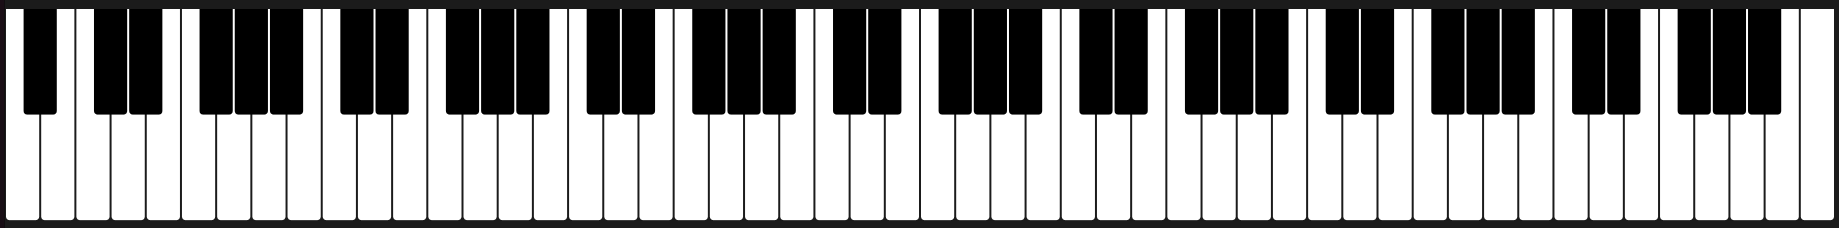
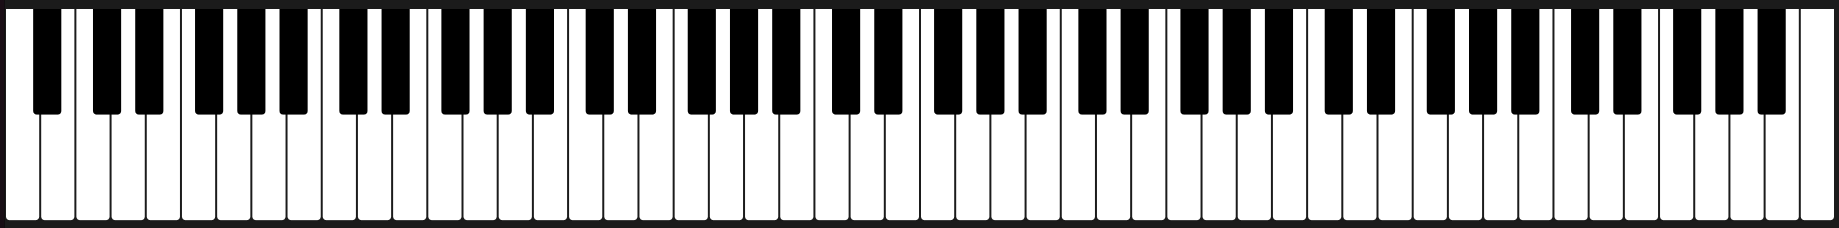
Add spacing for fingers between black keys.

diff --git a/egui-widgets-music/src/piano_keys.rs b/egui-widgets-music/src/piano_keys.rs
@@ -7,6 +7,7 @@ pub struct PianoConfig {
     pub white_key_size_ratio: f32,
     pub black_key_size_ratio: f32,
     pub ratio_rounding: f32,
+    pub ratio_width_white_to_black_keys: f32,
     pub color_white_key: Color32,
     pub color_black_key: Color32,
     pub color_white_pressed_key: Color32,
@@ -19,7 +20,8 @@ impl Default for PianoConfig {
             first_key: ChromaticNote::new(ChromaticTone::A, 0),
             last_key: ChromaticNote::new(ChromaticTone::C, 8),
             white_key_size_ratio: 6.0,
-            black_key_size_ratio: 3.0,
+            black_key_size_ratio: 3.5,
+            ratio_width_white_to_black_keys: 0.8,
             ratio_rounding: 0.1,
             color_black_key: Color32::BLACK,
             color_white_key: Color32::WHITE,
@@ -49,6 +51,7 @@ trait PianoKey {
         !self.is_white_key()
     }
     fn is_followed_by_black_key(&self) -> bool;
+    fn key_offset(&self) -> f32;
 }
 
 impl PianoKey for ChromaticNote {
@@ -84,6 +87,23 @@ impl PianoKey for ChromaticNote {
             | ChromaticTone::GSharp => false,
         }
     }
+
+    fn key_offset(&self) -> f32 {
+        match self.tone {
+            ChromaticTone::A
+            | ChromaticTone::C
+            | ChromaticTone::D
+            | ChromaticTone::F
+            | ChromaticTone::G
+            | ChromaticTone::E
+            | ChromaticTone::B => 0.0,
+            ChromaticTone::CSharp => -0.1,
+            ChromaticTone::DSharp => 0.1,
+            ChromaticTone::FSharp => -0.2,
+            ChromaticTone::GSharp => 0.0,
+            ChromaticTone::ASharp => 0.2,
+        }
+    }
 }
 
 impl Widget for PianoKeys {
@@ -95,6 +115,7 @@ impl Widget for PianoKeys {
             .count();
         let canvas_width = ui.available_width();
         let white_key_width = canvas_width / number_of_white_keys as f32;
+        let black_key_width = white_key_width * self.config.ratio_width_white_to_black_keys;
         let rounding = white_key_width * self.config.ratio_rounding;
         let white_key_height = white_key_width * self.config.white_key_size_ratio;
         let black_key_height = white_key_width * self.config.black_key_size_ratio;
@@ -146,15 +167,15 @@ impl Widget for PianoKeys {
                 } else {
                     self.config.color_black_key
                 };
-                let key = key_number as f32 + 0.5;
+                let key = (key_number + 1) as f32 + note.key_offset();
                 painter.rect_filled(
                     Rect {
                         min: Pos2 {
-                            x: key * white_key_width + 1.0,
+                            x: key * white_key_width - black_key_width * 0.5,
                             y: 50.0,
                         },
                         max: Pos2 {
-                            x: (key + 1.0) * white_key_width - 1.0,
+                            x: key * white_key_width + black_key_width * 0.5,
                             y: 50.0 + black_key_height,
                         },
                     },

diff --git a/README.md b/README.md
@@ -33,6 +33,4 @@ Widget to draw a piano. Has options to use different colors when keys are presse
 ![Piano Keys](resources/egui-piano-keys.png "egui-widgets-music::piano_keys")
 
 Still in development, here is a short list containing improvements.
-- [ ] Use different width for black keys.
-- [ ] Add spacing and offset between black keys.
 - [ ] Reserve layout space in egui.
